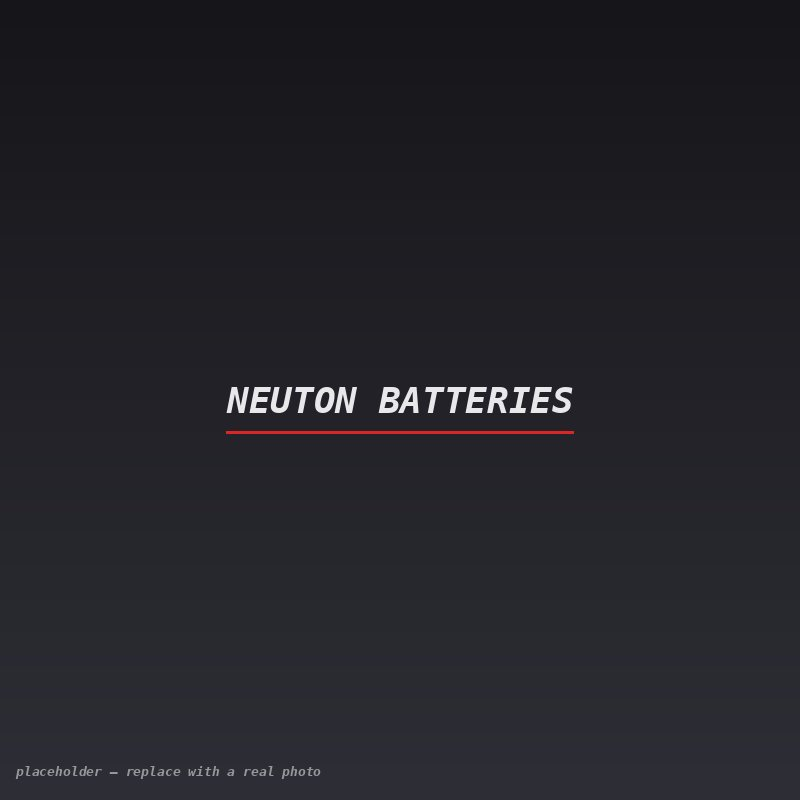
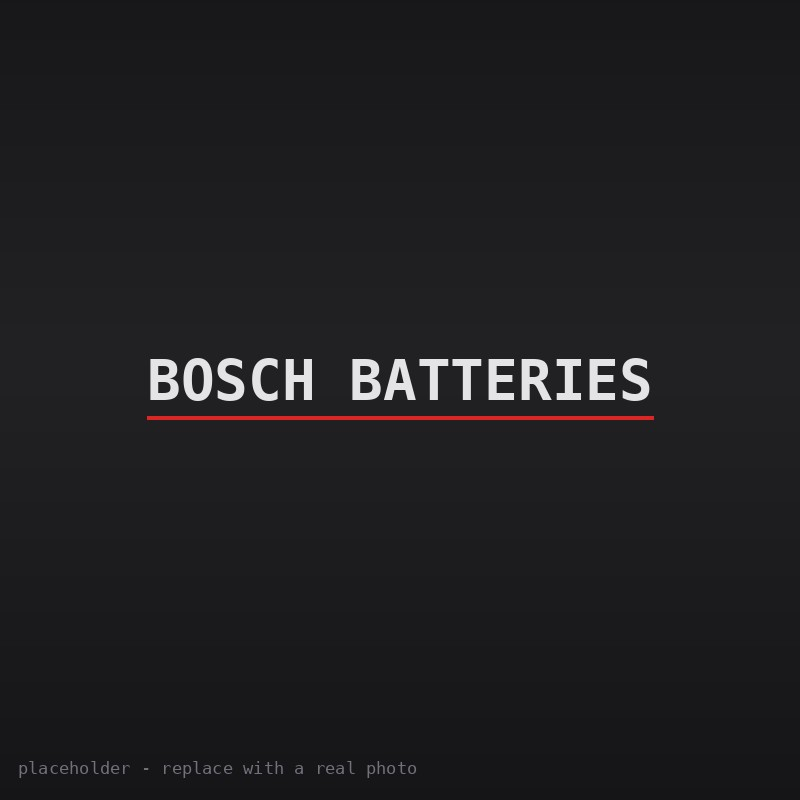
Rebrand batteries from Neuton to Bosch

Changed region(s): [[0.0, 0.8438, 1.0, 1.0], [0.1875, 0.4375, 0.8125, 0.5625]]

diff --git a/app/batteries/page.js b/app/batteries/page.js
@@ -36,8 +36,8 @@ export default function Batteries() {
       <section className="bg-zinc-900 text-white">
         <div className="mx-auto max-w-5xl px-4 py-16">
           <p className="text-sm font-semibold uppercase tracking-wider text-red-400">In stock now</p>
-          <h1 className="mt-2 text-4xl font-bold tracking-tight sm:text-5xl">Neuton Power Batteries</h1>
-          <p className="mt-4 max-w-2xl text-lg text-zinc-300">Cheap, quality AGM &amp; lithium batteries — ATVs, side-by-sides, motorcycles, mowers, cars, 4x4s, tractors and marine. Ready to go at Betterservice ATV.</p>
+          <h1 className="mt-2 text-4xl font-bold tracking-tight sm:text-5xl">Bosch Batteries</h1>
+          <p className="mt-4 max-w-2xl text-lg text-zinc-300">Bosch AGM &amp; lithium batteries — ATVs, side-by-sides, motorcycles, mowers, cars, 4x4s, tractors and marine. Fitted and ready to go at Betterservice ATV.</p>
           <a href="tel:02108327787" className="mt-7 inline-block rounded-lg bg-red-600 px-5 py-3 font-semibold text-white hover:bg-red-700">Call or text · 021 08327787</a>
         </div>
       </section>
@@ -57,10 +57,10 @@ export default function Batteries() {
             ))}
           </div>
           <div>
-            <img src={PRODUCT_IMG} alt="Neuton Power Batteries" className="w-full rounded-xl border border-zinc-200 bg-white object-contain" />
+            <img src={PRODUCT_IMG} alt="Bosch batteries" className="w-full rounded-xl border border-zinc-200 bg-white object-contain" />
             <div className="mt-4 rounded-xl border border-red-100 bg-red-50 p-5">
               <p className="font-semibold text-zinc-900">Not sure which one?</p>
-              <p className="mt-1 text-sm text-zinc-700">Tell Craig your make and model and he'll sort the right battery — most are in stock and ready to fit.</p>
+              <p className="mt-1 text-sm text-zinc-700">Tell Craig your make and model and he\u2019ll sort the right Bosch battery \u2014 most are in stock and ready to fit.</p>
               <a href="tel:02108327787" className="mt-3 inline-block rounded-lg bg-red-600 px-4 py-2.5 text-sm font-semibold text-white hover:bg-red-700">Call or text Craig</a>
             </div>
           </div>

diff --git a/app/page.js b/app/page.js
@@ -19,7 +19,7 @@ function Svg({ children }) {
 const services = [
   { title: "Servicing & repairs", desc: "Motorcycles and ATVs — routine services through to diagnostics and repairs, done properly.", icon: <Svg><path d="M14.7 6.3a1 1 0 0 0 0 1.4l1.6 1.6a1 1 0 0 0 1.4 0l3.77-3.77a6 6 0 0 1-7.94 7.94l-6.91 6.91a2.12 2.12 0 0 1-3-3l6.91-6.91a6 6 0 0 1 7.94-7.94l-3.76 3.76z" /></Svg> },
   { title: "Used ATV sales", desc: "Quality-checked used ATVs, safe and work-ready. MTF finance arranged and trades welcome.", icon: <Svg><path d="M12.586 2.586A2 2 0 0 0 11.172 2H4a2 2 0 0 0-2 2v7.172a2 2 0 0 0 .586 1.414l8.704 8.704a2.426 2.426 0 0 0 3.42 0l6.58-6.58a2.426 2.426 0 0 0 0-3.42z" /><circle cx="7.5" cy="7.5" r="1.2" /></Svg> },
-  { title: "Parts & accessories", desc: "Neuton power batteries, Flip recessed bike mounts, and gear to keep you riding.", icon: <Svg><path d="m7.5 4.3 9 5.14" /><path d="M21 8a2 2 0 0 0-1-1.73l-7-4a2 2 0 0 0-2 0l-7 4A2 2 0 0 0 3 8v8a2 2 0 0 0 1 1.73l7 4a2 2 0 0 0 2 0l7-4A2 2 0 0 0 21 16Z" /><path d="m3.3 7 8.7 5 8.7-5" /><path d="M12 22V12" /></Svg> },
+  { title: "Parts & accessories", desc: "Bosch batteries, Flip recessed bike mounts, and gear to keep you riding.", icon: <Svg><path d="m7.5 4.3 9 5.14" /><path d="M21 8a2 2 0 0 0-1-1.73l-7-4a2 2 0 0 0-2 0l-7 4A2 2 0 0 0 3 8v8a2 2 0 0 0 1 1.73l7 4a2 2 0 0 0 2 0l7-4A2 2 0 0 0 21 16Z" /><path d="m3.3 7 8.7 5 8.7-5" /><path d="M12 22V12" /></Svg> },
   { title: "Honest advice", desc: "25+ years in off-road bikes and ATVs — straight-up advice and a fair price.", icon: <Svg><path d="M20 13c0 5-3.5 7.5-7.66 8.95a1 1 0 0 1-.67-.01C7.5 20.5 4 18 4 13V6a1 1 0 0 1 1-1c2 0 4.5-1.2 6.24-2.72a1.17 1.17 0 0 1 1.52 0C14.51 3.81 17 5 19 5a1 1 0 0 1 1 1z" /><path d="m9 12 2 2 4-4" /></Svg> },
 ];
 
